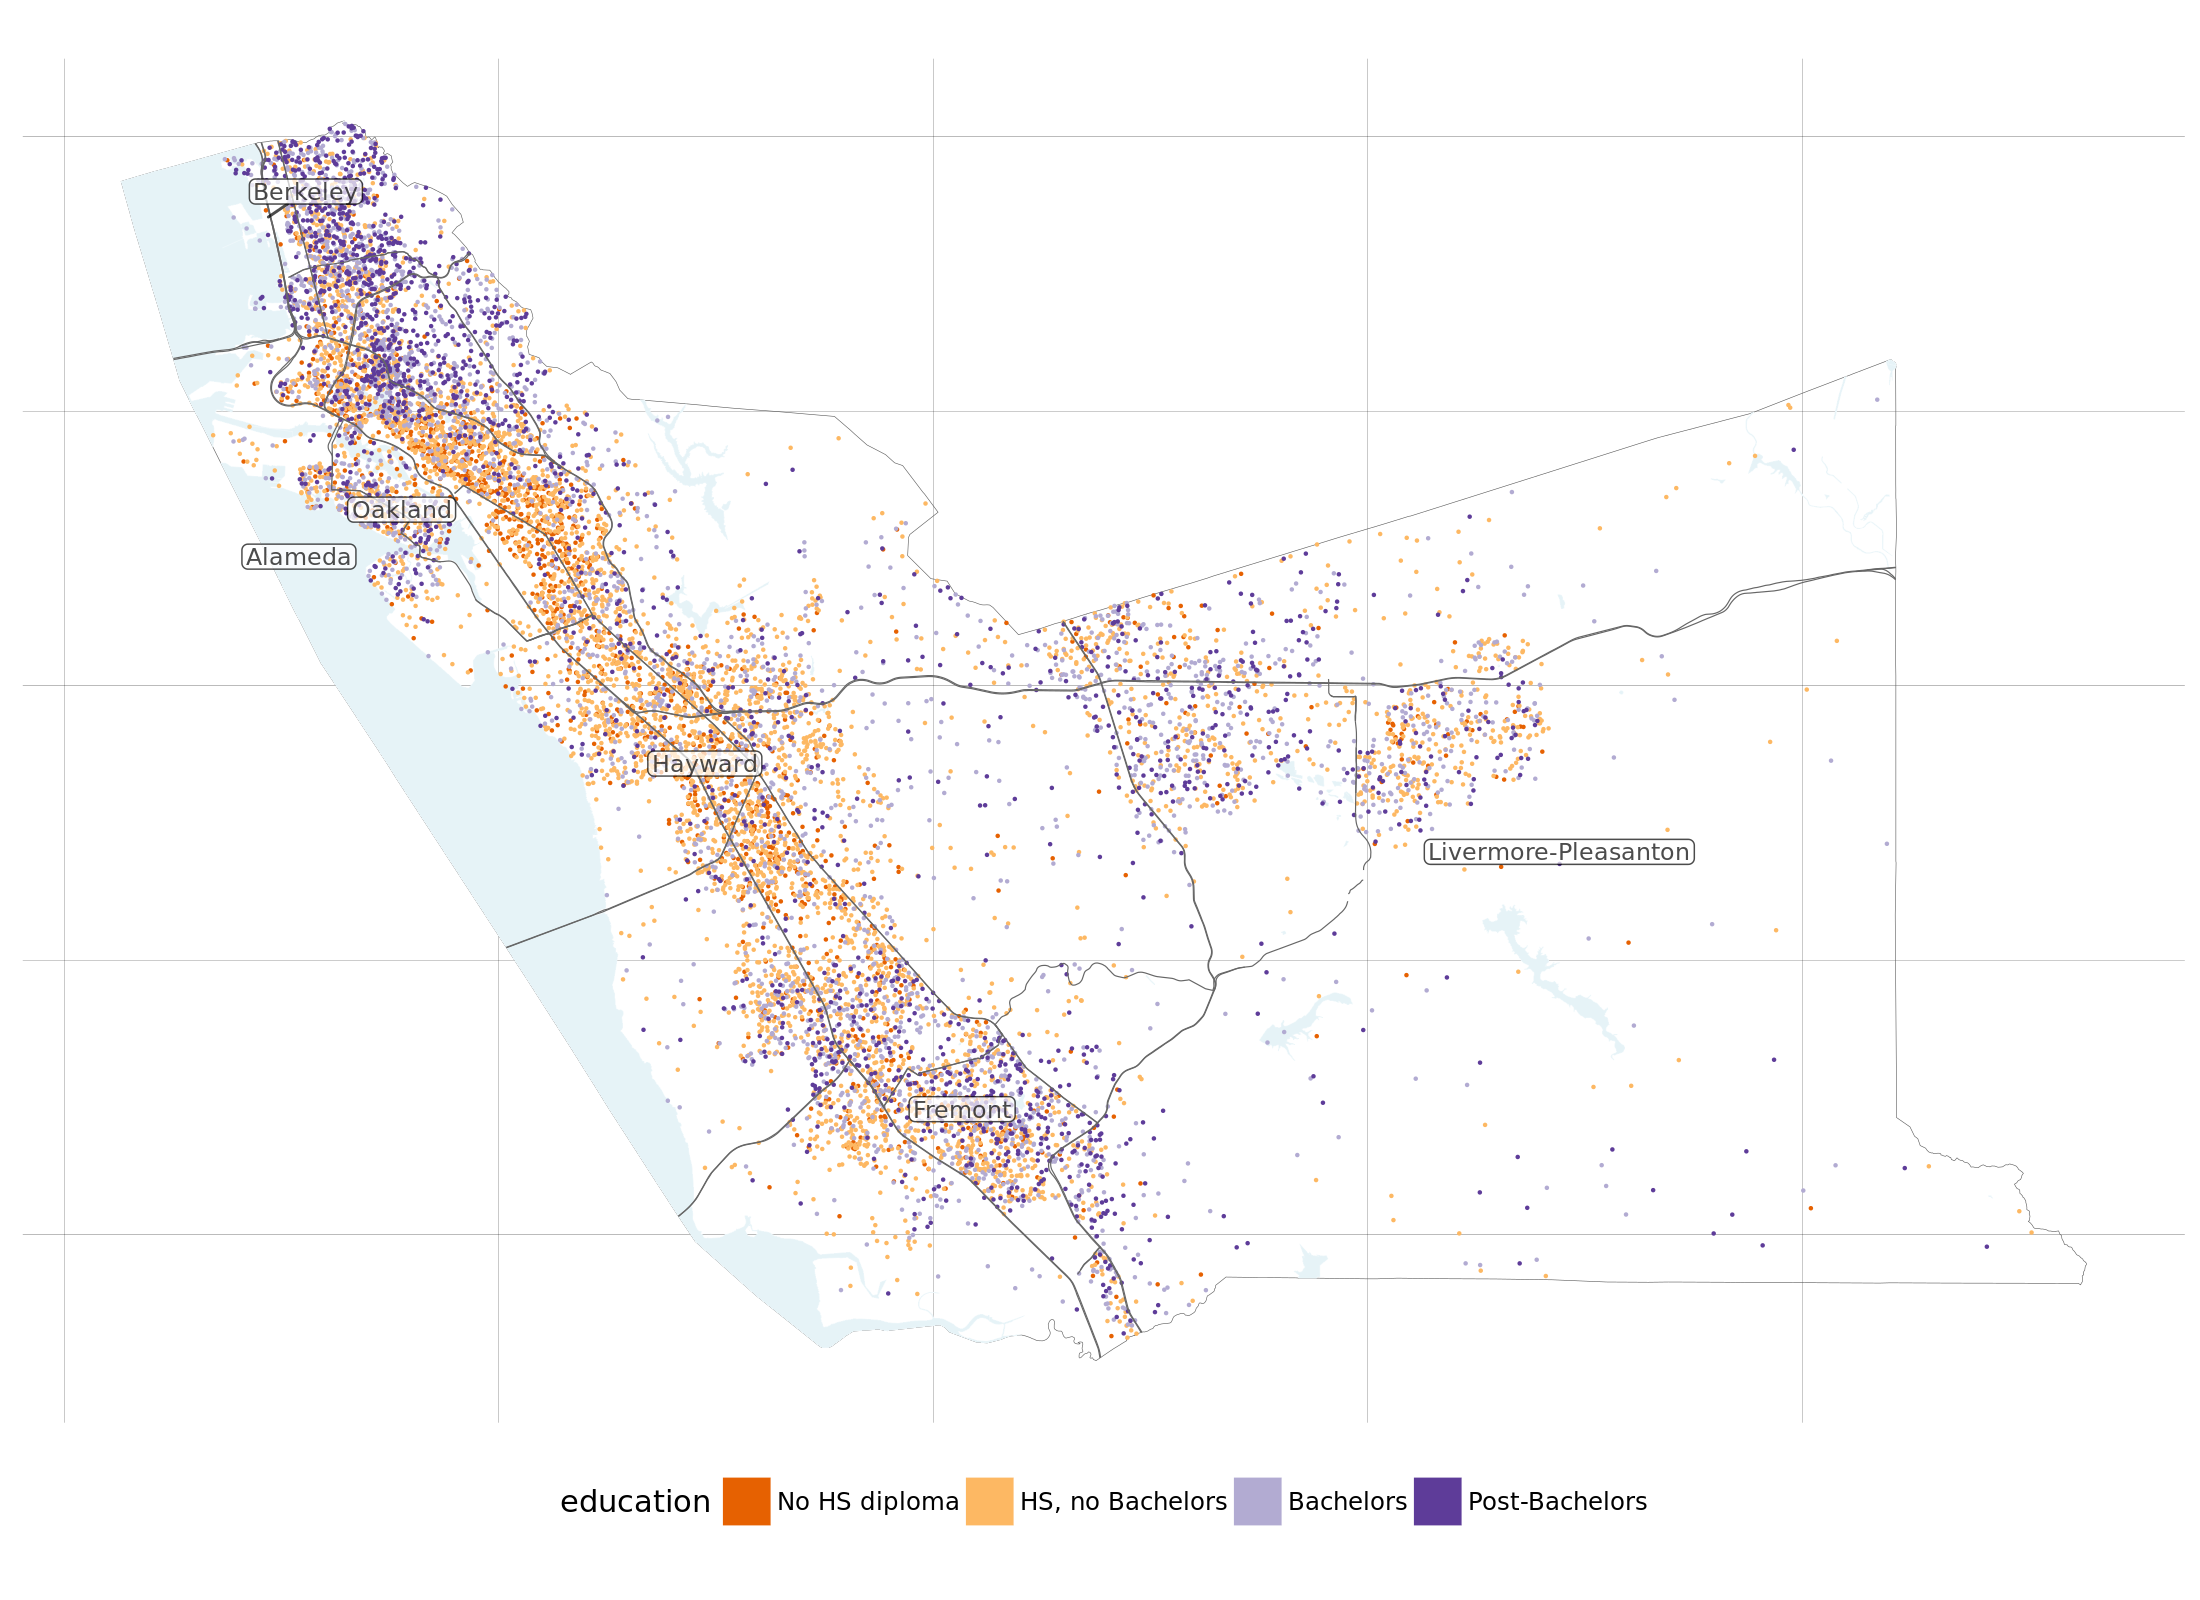
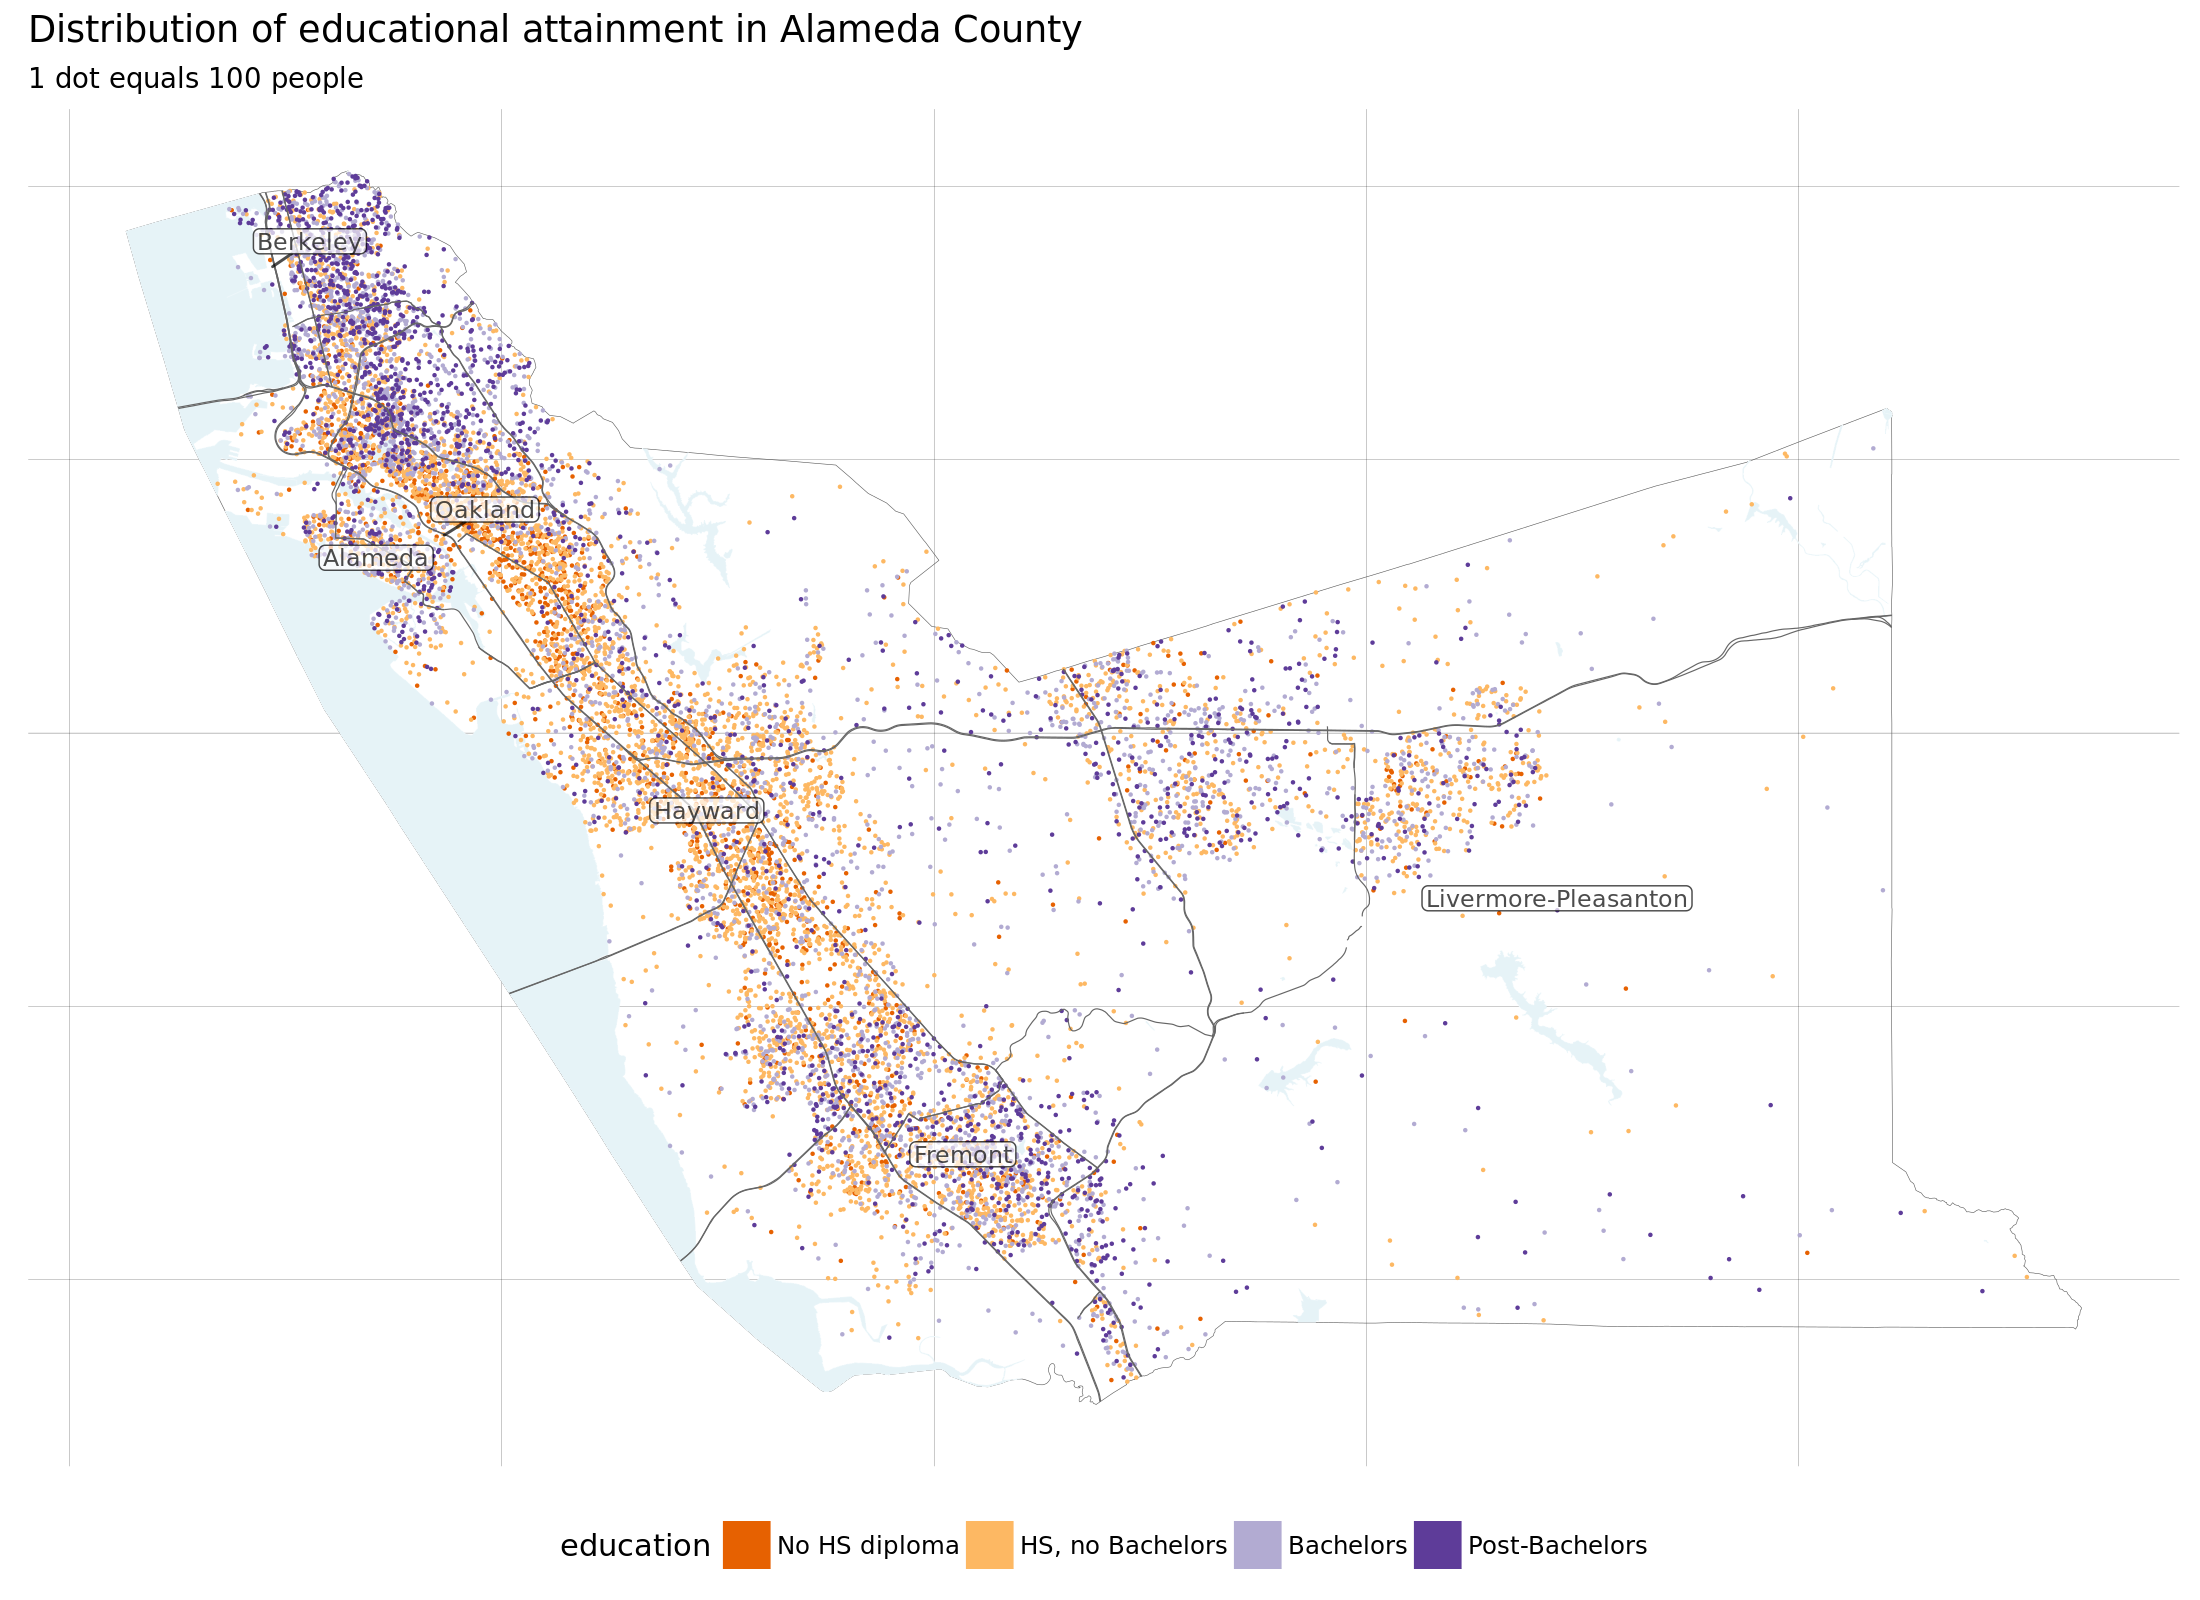
add title/subtitle to final dot-density plot

diff --git a/dot-density/index.md b/dot-density/index.md
@@ -275,7 +275,9 @@ ggplot() +
     ggrepel::geom_label_repel(data = town_labels,
                              aes(x = X, y = Y, label = NAME),
                              size = 3, family = "Roboto Condensed",
-                             label.padding = unit(.1, "lines"), alpha = .7)
+                             label.padding = unit(.1, "lines"), alpha = .7) +
+    ggtitle("Distribution of educational attainment in Alameda County",
+            "1 dot equals 100 people")
 ~~~~
 <p class = "full-width">
 <img src="index_files/figure-markdown_strict/unnamed-chunk-9-1.png" style="display: block; margin: auto;" />
